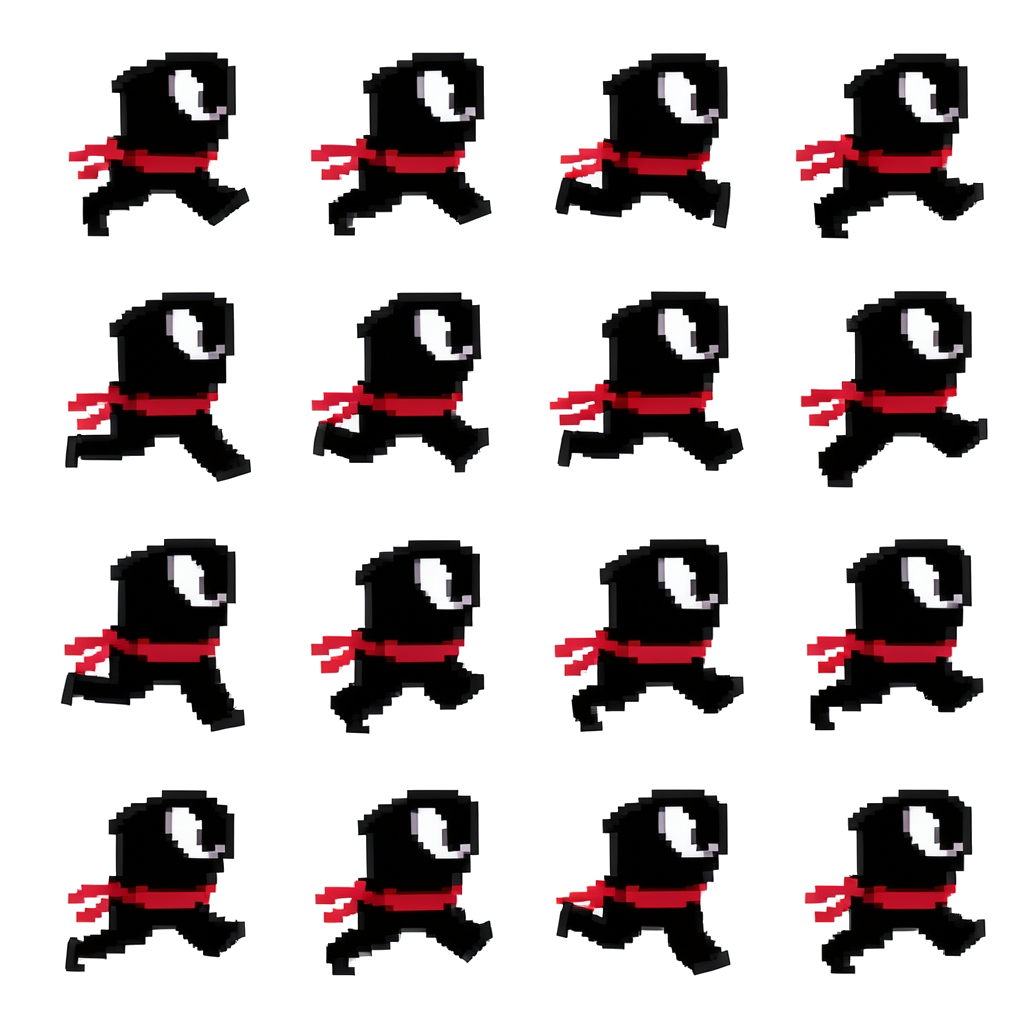
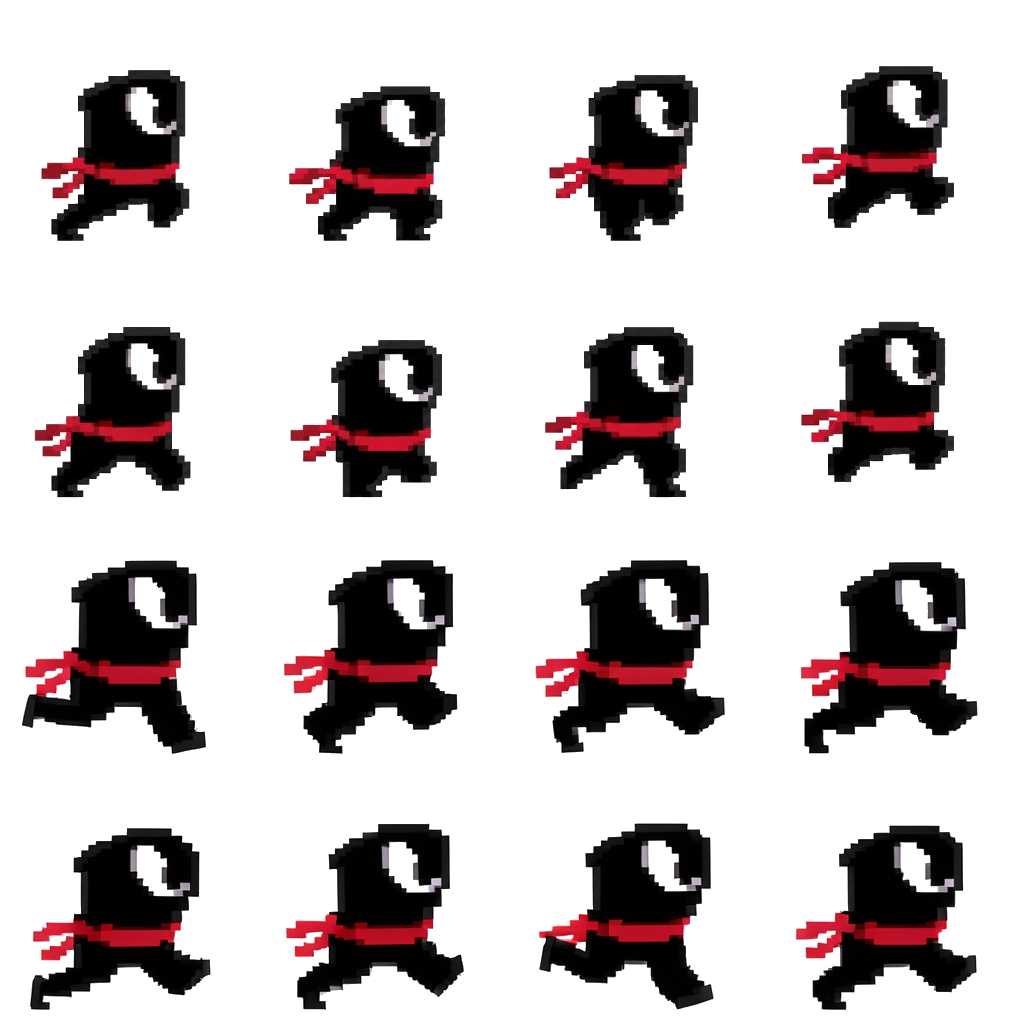
fix: align alternating 8-frame running leg animation from reference sprite sheet

diff --git a/src/lib/game/art.ts b/src/lib/game/art.ts
@@ -2,31 +2,32 @@ import { GRAVITY, JUMP_V, PLAYER_H, TRACK_H, type Obstacle, type Runner } from "
 import type { Pickup, Powers } from "./powers";
 
 // Anchor registration for the 16 frames in the 1024x1024 character sprite sheet.
-// ax: horizontal upper-body anchor to eliminate horizontal drift/sliding across columns.
-// ay: vertical ground-contact foot baseline to eliminate vertical jumps across rows.
+// ax: horizontal body-center anchor for drift-free alignment.
+// ay: vertical ground-contact foot baseline (y = 240.00 for all frames).
 const FRAME_ANCHORS: { ax: number; ay: number }[] = [
-  /*  0 */ { ax: 166.98, ay: 236.00 },
-  /*  1 */ { ax: 158.67, ay: 235.00 },
-  /*  2 */ { ax: 146.77, ay: 228.00 },
-  /*  3 */ { ax: 129.05, ay: 238.00 },
-  /*  4 */ { ax: 165.48, ay: 225.00 },
-  /*  5 */ { ax: 155.94, ay: 216.00 },
-  /*  6 */ { ax: 144.99, ay: 214.00 },
-  /*  7 */ { ax: 133.91, ay: 231.00 },
-  /*  8 */ { ax: 164.32, ay: 219.00 },
-  /*  9 */ { ax: 154.64, ay: 221.00 },
-  /* 10 */ { ax: 144.44, ay: 219.00 },
-  /* 11 */ { ax: 134.81, ay: 218.00 },
-  /* 12 */ { ax: 163.85, ay: 203.00 },
-  /* 13 */ { ax: 155.74, ay: 207.00 },
-  /* 14 */ { ax: 146.82, ay: 207.00 },
-  /* 15 */ { ax: 134.89, ay: 205.00 },
+  /*  0 */ { ax: 127.45, ay: 240.00 },
+  /*  1 */ { ax: 130.00, ay: 240.00 },
+  /*  2 */ { ax: 126.60, ay: 240.00 },
+  /*  3 */ { ax: 122.43, ay: 240.00 },
+  /*  4 */ { ax: 126.11, ay: 240.00 },
+  /*  5 */ { ax: 127.97, ay: 240.00 },
+  /*  6 */ { ax: 121.99, ay: 240.00 },
+  /*  7 */ { ax: 121.69, ay: 240.00 },
+  /*  8 */ { ax: 127.63, ay: 240.00 },
+  /*  9 */ { ax: 127.52, ay: 240.00 },
+  /* 10 */ { ax: 127.56, ay: 240.00 },
+  /* 11 */ { ax: 128.08, ay: 240.00 },
+  /* 12 */ { ax: 128.44, ay: 240.00 },
+  /* 13 */ { ax: 128.11, ay: 240.00 },
+  /* 14 */ { ax: 127.80, ay: 240.00 },
+  /* 15 */ { ax: 127.91, ay: 240.00 },
 ];
 
-// Balanced 8-frame alternating running cycle:
-// Stride 1 (Right): 4 (reach) -> 8 (strike/plant) -> 5 (drive) -> 6 (pass)
-// Stride 2 (Left):  7 (reach) -> 9 (strike/plant) -> 10 (drive) -> 1 (pass)
-const RUN_CYCLE_FRAMES = [4, 8, 5, 6, 7, 9, 10, 1];
+// 8-frame running cycle using all 8 running frames from Sheet 1 (frames 0-7).
+// Provides a full alternating left-right stride with 6 distinct leg phases:
+// Left contact (0) → Left push-off (1) → Passing (2) → Right contact (3) →
+// Right push-off (4) → Left drive (5) → Passing (6) → Right drive (7)
+const RUN_CYCLE_FRAMES = [0, 1, 2, 3, 4, 5, 6, 7];
 
 export class GameArt {
   private runnerImage = new Image();
@@ -193,11 +194,13 @@ export class GameArt {
       const runFps = powers.speed > 0 ? 15 : 12;
       const cycleProgress = time * runFps;
       const frameIndex = Math.floor(cycleProgress) % RUN_CYCLE_FRAMES.length;
-      const frame = dead ? 8 : runner.grounded ? RUN_CYCLE_FRAMES[frameIndex] : rising ? 14 : 12;
+      // Frame mapping: 0-7 = running, 8-11 = jump/transition (row 2), 12-15 = air/tuck (row 3)
+      // Dead: frame 15 (defeat pose). Jump rising: frame 12 (takeoff). Jump falling: frame 14 (descent).
+      const frame = dead ? 15 : runner.grounded ? RUN_CYCLE_FRAMES[frameIndex] : rising ? 12 : 14;
 
       const frameX = (frame % 4) * 256;
       const frameY = Math.floor(frame / 4) * 256;
-      const anchor = FRAME_ANCHORS[frame] ?? { ax: 150, ay: 225 };
+      const anchor = FRAME_ANCHORS[frame] ?? { ax: 128, ay: 240 };
 
       // Subtle, rhythmic body bounce synchronized with running contact phases
       const bounce = runner.grounded
